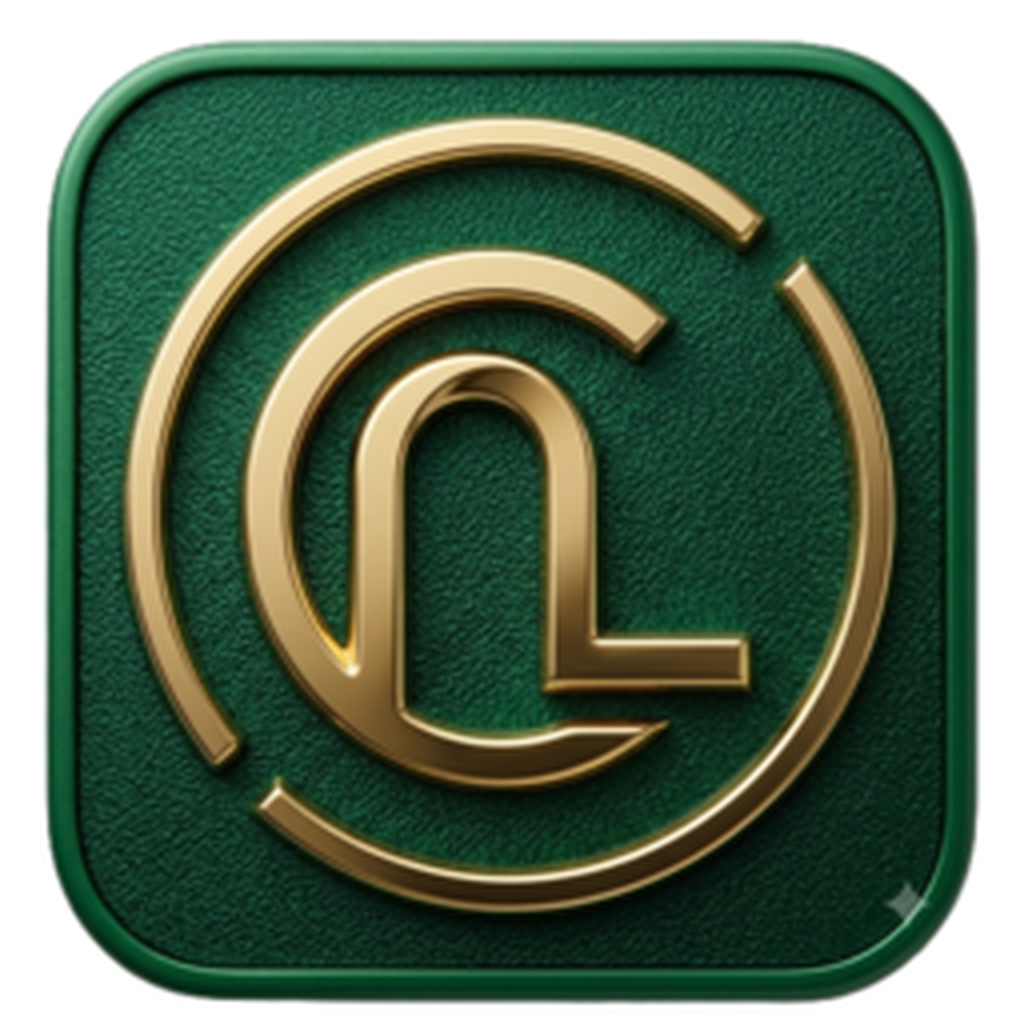
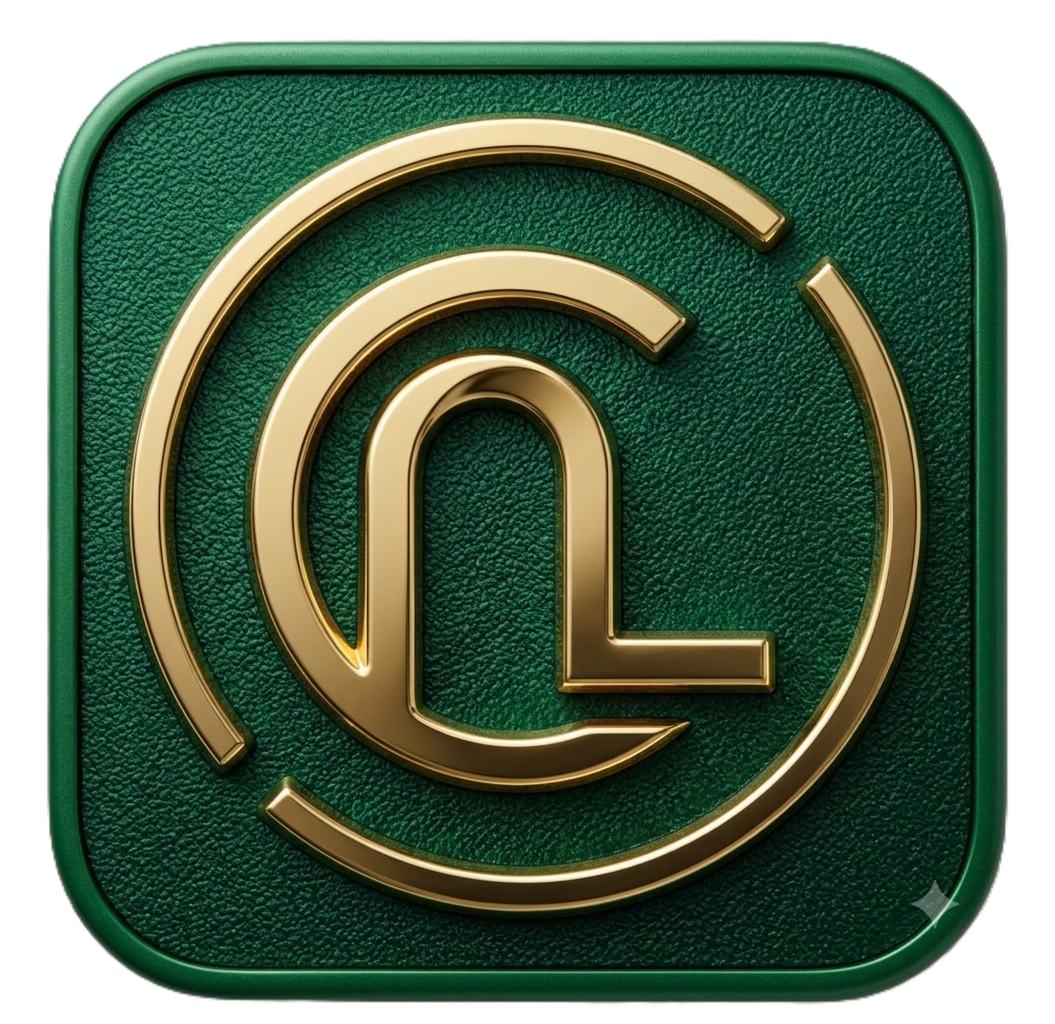
v2.1.2: Native persistence, auto-asset generation, and SQL column fixes

diff --git a/src/store/useAuthStore.ts b/src/store/useAuthStore.ts
@@ -1,6 +1,21 @@
 import { create } from 'zustand'
-import { persist } from 'zustand/middleware'
+import { persist, createJSONStorage } from 'zustand/middleware'
 import { supabase } from '../lib/supabase'
+import { Preferences } from '@capacitor/preferences'
+
+// Custom storage for Capacitor Preferences
+const capacitorStorage = {
+  getItem: async (name: string): Promise<string | null> => {
+    const { value } = await Preferences.get({ key: name })
+    return value
+  },
+  setItem: async (name: string, value: string): Promise<void> => {
+    await Preferences.set({ key: name, value })
+  },
+  removeItem: async (name: string): Promise<void> => {
+    await Preferences.remove({ key: name })
+  },
+}
 
 export type UserRole = 'resident' | 'admin' | 'guard' | 'superadmin'
 
@@ -63,10 +78,16 @@ export const useAuthStore = create<AuthState>()(
         set({ user: null })
       },
       initialize: () => {
+        console.log('Initializing Auth Store...')
         const syncSession = async () => {
-          // No bloqueamos el authReady mientras sincronizamos si ya tenemos un usuario local para evitar parpadeos
-          if (!get().user) {
+          const storedUser = get().user
+          console.log('Stored user found in persist:', storedUser?.email)
+
+          if (!storedUser) {
              set({ authReady: false })
+          } else {
+             // Si hay usuario guardado, lo damos por bueno inicialmente para rapidez
+             set({ authReady: true })
           }
 
           try {
@@ -138,6 +159,7 @@ export const useAuthStore = create<AuthState>()(
     }),
     {
       name: 'auth-storage-v6',
+      storage: createJSONStorage(() => capacitorStorage),
       partialize: (state) => ({ user: state.user, whitelist: state.whitelist })
     }
   )

diff --git a/src/features/auth/AuthSplash.tsx b/src/features/auth/AuthSplash.tsx
@@ -10,25 +10,34 @@ export const AuthSplash: React.FC = () => {
 
   return (
     <div style={{
-      height: '100%',
+      height: '100vh',
       width: '100%',
       backgroundColor: 'var(--bg-color)',
       display: 'flex',
       flexDirection: 'column',
       alignItems: 'center',
-      justifyContent: 'center',
-      padding: '24px',
+      justifyContent: 'space-between',
+      padding: 'calc(40px + env(safe-area-inset-top)) 24px calc(40px + env(safe-area-inset-bottom))',
       boxSizing: 'border-box',
-      fontFamily: "'Inter', sans-serif"
+      fontFamily: "'Inter', sans-serif",
+      position: 'relative',
+      overflow: 'hidden'
     }}>
+      {/* Background elements to fill space gracefully */}
+      <div style={{ position: 'absolute', top: '-10%', right: '-10%', width: '300px', height: '300px', borderRadius: '50%', backgroundColor: 'rgba(18, 184, 163, 0.05)', zIndex: 0 }}></div>
+      <div style={{ position: 'absolute', bottom: '-10%', left: '-10%', width: '250px', height: '250px', borderRadius: '50%', backgroundColor: 'rgba(120, 89, 25, 0.05)', zIndex: 0 }}></div>
+
       <main style={{
         display: 'flex',
         flexDirection: 'column',
         alignItems: 'center',
         width: '100%',
         maxWidth: '400px',
-        gap: '24px',
-        textAlign: 'center'
+        gap: '20px',
+        textAlign: 'center',
+        zIndex: 1,
+        flex: 1,
+        justifyContent: 'center'
       }}>
         <img src={icono} alt="Logo" style={{ width: '140px', height: 'auto', marginBottom: '8px' }} />
         <p style={{ margin: '0 0 12px 0', fontSize: '13px', color: 'rgba(15,85,81,0.72)', letterSpacing: '0.14em' }}>

diff --git a/ios/App/CapApp-SPM/Package.swift b/ios/App/CapApp-SPM/Package.swift
@@ -13,7 +13,10 @@ let package = Package(
     dependencies: [
         .package(url: "https://github.com/ionic-team/capacitor-swift-pm.git", exact: "6.2.1"),
         .package(name: "CapacitorApp", path: "..\..\..\node_modules\@capacitor\app"),
-        .package(name: "CapacitorBrowser", path: "..\..\..\node_modules\@capacitor\browser")
+        .package(name: "CapacitorBrowser", path: "..\..\..\node_modules\@capacitor\browser"),
+        .package(name: "CapacitorDevice", path: "..\..\..\node_modules\@capacitor\device"),
+        .package(name: "CapacitorPushNotifications", path: "..\..\..\node_modules\@capacitor\push-notifications"),
+        .package(name: "CapacitorSplashScreen", path: "..\..\..\node_modules\@capacitor\splash-screen")
     ],
     targets: [
         .target(
@@ -22,7 +25,10 @@ let package = Package(
                 .product(name: "Capacitor", package: "capacitor-swift-pm"),
                 .product(name: "Cordova", package: "capacitor-swift-pm"),
                 .product(name: "CapacitorApp", package: "CapacitorApp"),
-                .product(name: "CapacitorBrowser", package: "CapacitorBrowser")
+                .product(name: "CapacitorBrowser", package: "CapacitorBrowser"),
+                .product(name: "CapacitorDevice", package: "CapacitorDevice"),
+                .product(name: "CapacitorPushNotifications", package: "CapacitorPushNotifications"),
+                .product(name: "CapacitorSplashScreen", package: "CapacitorSplashScreen")
             ]
         )
     ]

diff --git a/src/layouts/Main.tsx b/src/layouts/Main.tsx
@@ -95,8 +95,7 @@ export const Layout: React.FC = () => {
           flex: 1,
           width: '100%',
           overflowY: 'auto',
-          WebkitOverflowScrolling: 'touch',
-          paddingTop: isHome ? 'env(safe-area-inset-top)' : '0px'
+          WebkitOverflowScrolling: 'touch'
         }}
       >
         <div style={{ width: '100%', maxWidth: '100%', margin: '0 auto' }}>